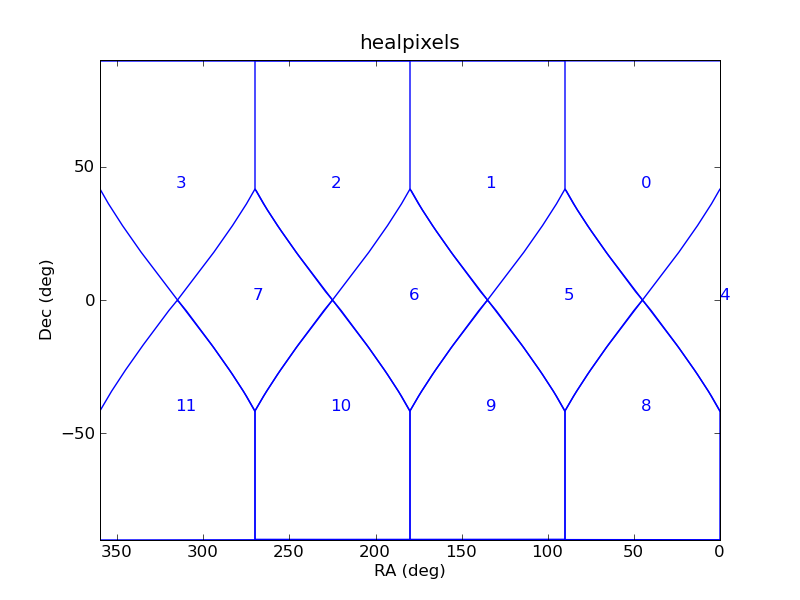
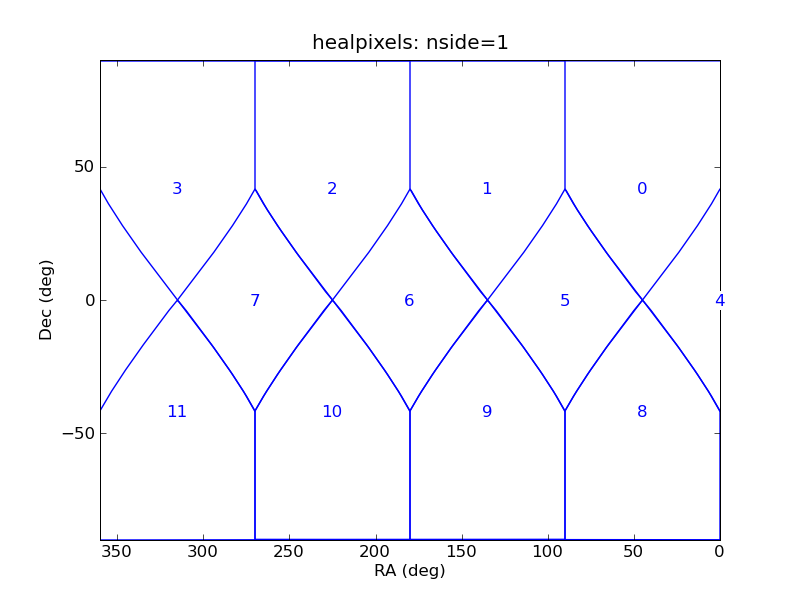
add nside=2 healpix map

diff --git a/src/astrometry/util/test_healpix.c b/src/astrometry/util/test_healpix.c
@@ -78,35 +78,14 @@ static void plot_hp_boundary(int hp, int nside, double start, double step, char*
 	fprintf(stderr, "xp,yp = wrapxy(xp,yp)\nplot(xp, yp, '%s')\n", style);
 }
 
-void test_within_range(CuTest* ct) {
+static void hpmap(int nside, const char* fn) {
 	int nhp;
-	int nside = 1;
 	double xyz[3];
 	double range;
 	int hps[9];
 	int i;
 	int hp;
 	double dx, dy;
-
-    fprintf(stderr, "%s", "from pylab import *\n");
-	fprintf(stderr, "clf()\n"
-			"def wrapxy(x,y):\n"
-			"    lastx = x[0]\n"
-			"    lasty = y[0]\n"
-			"    outx = [lastx]\n"
-			"    outy = [lasty]\n"
-			"    for xx,yy in zip(x[1:],y[1:]):\n"
-			"        if (xx-lastx)**2 + (yy - lasty)**2 > 1.:\n"
-			"            if xx < 180:\n"
-			"                xx += 360\n"
-			"            else:\n"
-			"                xx -= 360\n"
-			"        outx.append(xx)\n"
-			"        outy.append(yy)\n"
-			"        lastx = xx\n"
-			"        lasty = yy\n"
-			"    return (array(outx),array(outy))\n"
-			);
 
 	// pick a point on the edge.
     //hp = 8;
@@ -142,16 +121,42 @@ void test_within_range(CuTest* ct) {
 	for (i=0; i<12*nside*nside; i++) {
 		fprintf(stderr, "xp=[]; yp=[]\n");
 		add_plot_point(i, nside, 0.5, 0.5);
-		fprintf(stderr, "text(xp[0], yp[0], '%i', color='b')\n", i);
+		fprintf(stderr, "text(xp[0], yp[0], '%i', color='b', horizontalalignment='center', verticalalignment='center', bbox=dict(facecolor='w', edgecolor='w'))\n", i);
 	}
 
     fprintf(stderr, "axis((360, 0, -90, 90))\n");
     fprintf(stderr, "xlabel('RA (deg)')\n");
     fprintf(stderr, "ylabel('Dec (deg)')\n");
-    fprintf(stderr, "title('healpixels')\n");
-    fprintf(stderr, "savefig('range.png')\n");
+    fprintf(stderr, "title('healpixels: nside=%i')\n", nside);
+    fprintf(stderr, "savefig('%s')\n", fn);
 	fprintf(stderr, "clf()\n");
 }
+
+void test_make_map(CuTest* ct) {
+    fprintf(stderr, "%s", "from pylab import *\n");
+	fprintf(stderr, "clf()\n"
+			"def wrapxy(x,y):\n"
+			"    lastx = x[0]\n"
+			"    lasty = y[0]\n"
+			"    outx = [lastx]\n"
+			"    outy = [lasty]\n"
+			"    for xx,yy in zip(x[1:],y[1:]):\n"
+			"        if (xx-lastx)**2 + (yy - lasty)**2 > 1.:\n"
+			"            if xx < 180:\n"
+			"                xx += 360\n"
+			"            else:\n"
+			"                xx -= 360\n"
+			"        outx.append(xx)\n"
+			"        outy.append(yy)\n"
+			"        lastx = xx\n"
+			"        lasty = yy\n"
+			"    return (array(outx),array(outy))\n"
+			);
+
+	hpmap(1, "hp.png");
+	hpmap(2, "hp2.png");
+}
+
 
 int tst_xyztohpf(CuTest* ct,
 				 int hp, int nside, double dx, double dy) {
